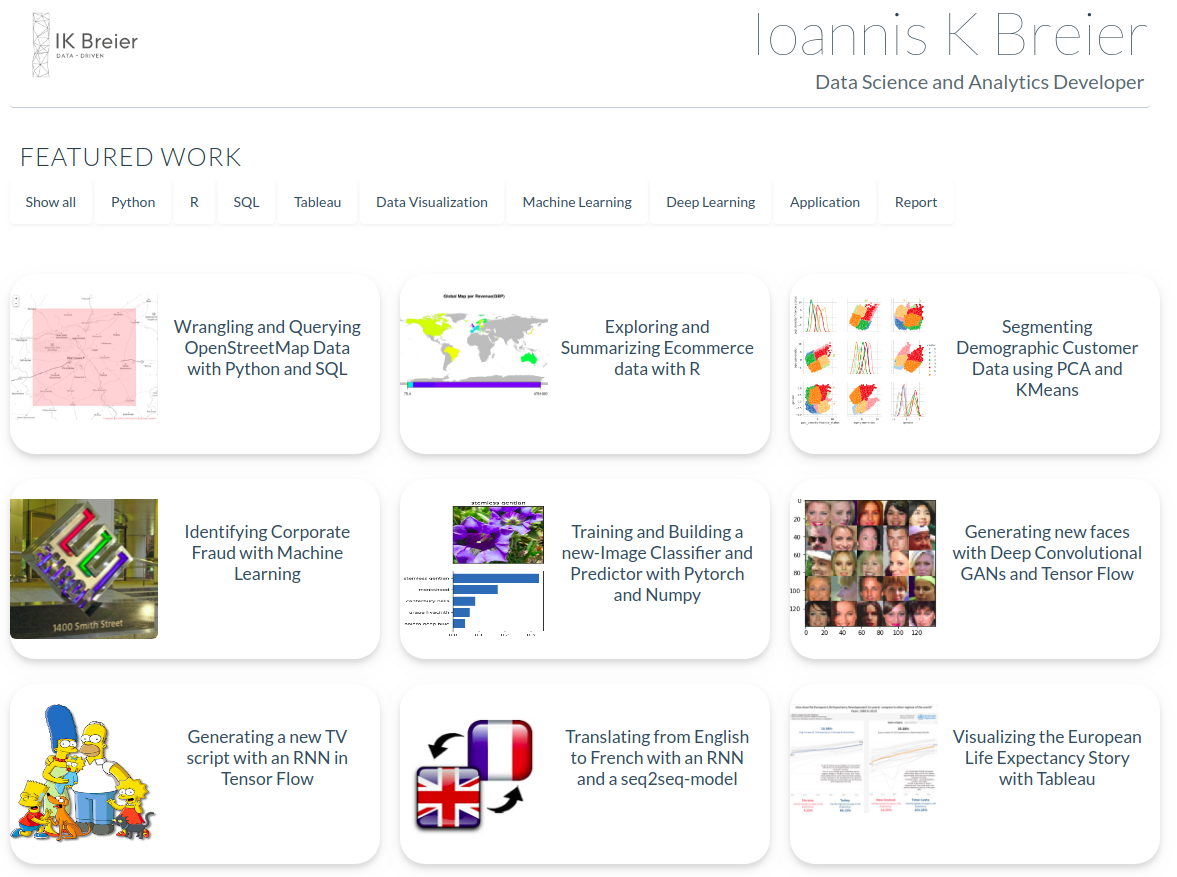
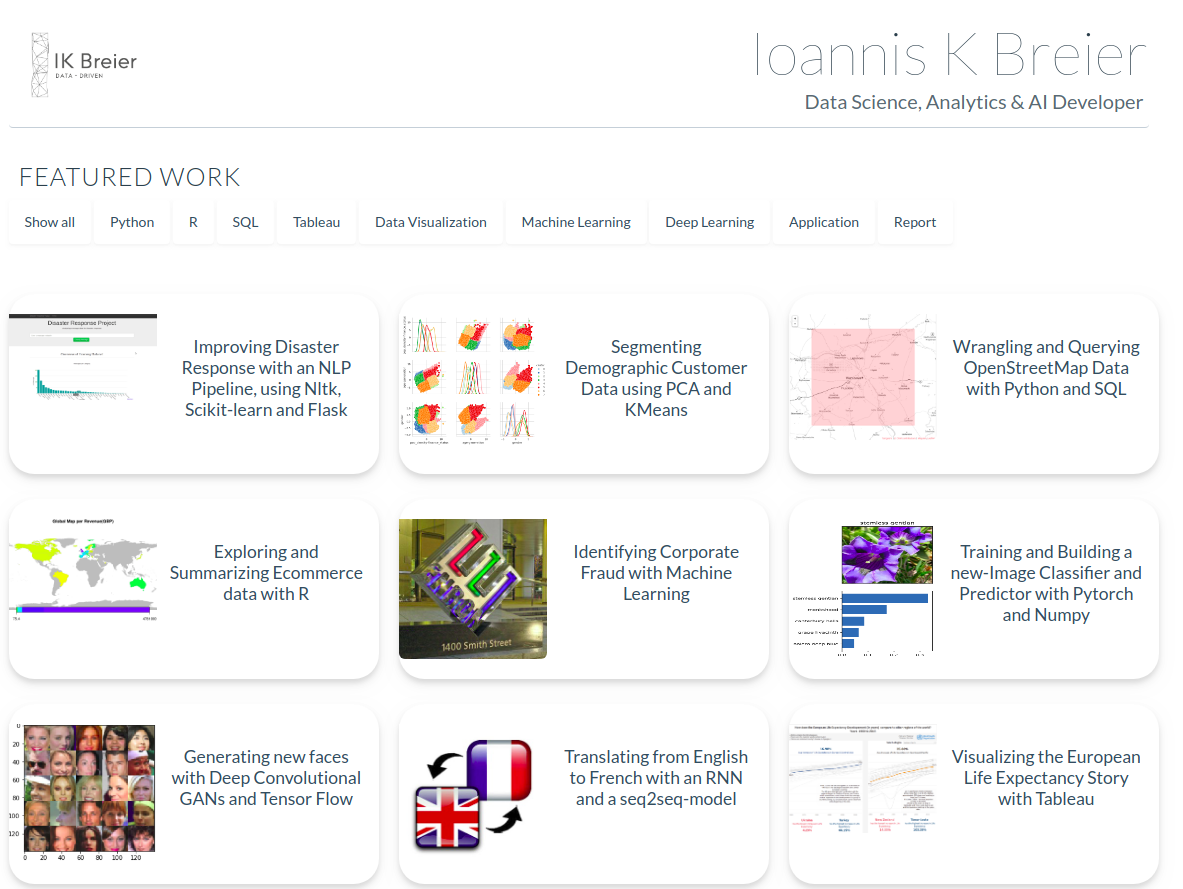
change

diff --git a/docs/index.html b/docs/index.html
@@ -21,8 +21,8 @@
 	  <!-- For Linkedin -->
 	  <meta name="Description" content="Some of my Educational and Publicly Sharable Data Science and Analytics projects">
 	  <meta name="url" content="https://jkarakas.github.io/portfolio/">
-      <meta name="image" content="img/Screenshot.png" >
-      <meta property='og:image' content='img/Screenshot 2018-10-01 08_57_53.png'/>
+      <meta name="image" content="img/screenshot.png" >
+      <meta property='og:image' content='img/screenshot.png'/>
 
 	  <!-- Latest compiled and minified CSS -->
 	  <link rel="stylesheet" href="https://maxcdn.bootstrapcdn.com/bootstrap/3.3.7/css/bootstrap.min.css">
@@ -51,10 +51,10 @@
       <button type="button" class="navbar-toggle collapsed" data-toggle="collapse" data-target="#bs-example-navbar-collapse-1" aria-expanded="false">
         <span class="sr-only">Toggle navigation</span>
         <span class="icon-bar"></span>
-        <span class="icon-bar"></span>	
+        <span class="icon-bar"></span>
         <span class="icon-bar"></span>
       </button>
-      
+
 
 
     </div>
@@ -67,7 +67,7 @@
 		      	<!-- THE LOGO ON THE LEFT IF I DECIDE TO USE IT - IMAGE AND TEXT OPTIONS -->
 <!-- 		      <a class="navbar-brand" href="#"><span><img src="img/ikbreier.ico"
 		       style="max-width:100px; margin-top: -12px; margin-left: -30px;"></span></a> -->
-<!-- 		       <li><a href="#"></a></li> 
+<!-- 		       <li><a href="#"></a></li>
 		       <a class="navbar-brand" id="nav-logo" href="#"><span>IK B</span></a> -->
 				<!-- DROPDOWN POSSIBILITY -->
 <!-- 		        <li class="active"><a href="#">Home<span class="sr-only">(current)</span></a></li>
@@ -104,7 +104,7 @@
 <!-- 		         <li class="active"><a href="#">Home<span class="sr-only">(current)</span></a></li>
 		         <li><a href="#">About</a></li>
 		        <li><a href="#">Blog</a></li> -->
-	
+
 		        <li><a href="#"></a></li>
 
 <!-- 		        <li><a href="#">Link</a></li>
@@ -130,15 +130,15 @@
 		</nav>
 		<!-- LOGO AND NAME              -->
 		<div class="container">
-			
 
-			
+
+
 
 
 <!-- 					<header class= "photo-banner"> -->
 					<nav class="navbar navbar-default title-row bg-1">
 					<div class="navbar-header logo">
-		        	<a class="navbar-left" href="#"><img alt="IKB Logo" src="img/ikbreier.png" width=150 
+		        	<a class="navbar-left" href="#"><img alt="IKB Logo" src="img/ikbreier.png" width=150
 		        	   style= 'color: #283e4a'></a>
 		   		</div><!--logo-->
 			    <div class="nav-wrapper nav-text">
@@ -146,11 +146,11 @@
 					<h3 class= "description">Data Science, Analytics & AI Developer</h3>
 				</div>  <!--Name-->
 				</nav>
-					  
-				    
+
+
 <!-- 					</header> -->
 					<h3 class="featured-projects">Featured Work</h3>
-					<div id="myBtnContainer">	
+					<div id="myBtnContainer">
 					  <button class="btn " id="filter-btn" onclick="filterSelection('all')"> Show all</button>
 					  <button class="btn " id="filter-btn" onclick="filterSelection('python')"> Python</button>
 					  <button class="btn " id="filter-btn" onclick="filterSelection('rlang')"> R</button>
@@ -171,7 +171,7 @@
 					    	<div class="project">
 <!-- 					    		<h3 class="project-title">Wrangle OpenStreetMap Data</h3> -->
 					    		<a  href="https://github.com/jkarakas/Disaster-Response-Pipeline" target="_blank"><img src="img/nlp_machine_learning_data_etl_pipeline_app.png"  class="img-rounded project-img" alt="Disaster-Respnse-Machine-Learning-NLP-Pipeline-Flask-App"></a>
-					            
+
 					      		<a class="project-description" href="https://github.com/jkarakas/Disaster-Response-Pipeline" target="_blank">Improving Disaster Response with an NLP Pipeline, using Nltk, Scikit-learn and Flask</a>
 					      	</div> <!--project-->
 					  	</div><!--column-->
@@ -181,14 +181,14 @@
 					    		<a href="https://jkarakas.github.io/Customer-Demographics-Segmentation-/Customer_Segmentation.html" target="_blank"><img src="img/clustering.png" class="img-rounded project-img" alt="Segmentation"></a>
 <!-- 					            <h3 class="project-title">Customer Segmentation </h3> -->
 					      		<a class="project-description" href="https://jkarakas.github.io/Customer-Demographics-Segmentation-/Customer_Segmentation.html" target="_blank">Segmenting Demographic Customer Data using PCA and KMeans</a>
-					      	</div> <!--project-->		
+					      	</div> <!--project-->
 					    </div><!--column-->
 
 					    <div class="col-sm-4 python sql app rep">
 					    	<div class="project">
 <!-- 					    		<h3 class="project-title">Wrangle OpenStreetMap Data</h3> -->
 					    		<a  href="https://jkarakas.github.io/Wrangle-OpenStreetMaps-Data-with-SQL/" target="_blank"><img src="img/Metro-Extracts_Warsaw.png"  class="img-rounded project-img" alt="Metro-Extracts_Warsaw"></a>
-					            
+
 					      		<a class="project-description" href="https://jkarakas.github.io/Wrangle-OpenStreetMaps-Data-with-SQL/" target="_blank"> Wrangling and Querying OpenStreetMap Data with Python and SQL</a>
 					      	</div> <!--project-->
 					  	</div><!--column-->
@@ -207,7 +207,7 @@
 					      	</div> <!--project-->
 					  	</div><!--column-->
 
-						<div class="col-sm-4 python ml rep"> 
+						<div class="col-sm-4 python ml rep">
 					    	<div class="project">
 					     		<a  href="https://jkarakas.github.io/Identify-Fraud-from-Enron-Email/" target="_blank"><img src="https://camo.githubusercontent.com/8f1273d7c412d9d41a799cc97ffc5a7c7481970b/68747470733a2f2f63646e2e746563686e6f6c6f67797265766965772e636f6d2f692f696d616765732f656e726f6e783239392e6a70673f73773d363830" class="img-rounded project-img" alt="Enron"></a>
 <!-- 			              		<h3 class="project-title">Detect Fraud</h3> -->
@@ -221,23 +221,23 @@
 					    		<a href="https://github.com/jkarakas/aipnd-project" target="_blank"><img src="https://cdn.jsdelivr.net/gh/jkarakas/aipnd-project@74539654524b165aeb7e29492d1e76c3fe355993/assets/inference_example.png" class="img-rounded project-img" height= 200 alt="aipnd-project"></a>
 <!-- 					            <h3 class="project-title">Classify Images</h3> -->
 					      		<a class="project-description" href="https://github.com/jkarakas/aipnd-project" target="_blank">Training  and Building a new-Image Classifier and Predictor with Pytorch and Numpy</a>
-					      	</div> <!--project-->					
+					      	</div> <!--project-->
 					  	</div><!--column-->
-					  	
+
 
 					  </div><!--row-->
 
 
 					  <div class="row "> <!--Not adding a margin to the last row to keep the social icons closer-->
 
-		                <div class="col-sm-4 python dl"> 	
+		                <div class="col-sm-4 python dl">
 					    	<div class="project">
 					     		<a href="https://github.com/jkarakas/Generate-New-Faces-With-DCGAN/blob/master/dlnd_face_generation.ipynb" target="_blank"><img src="img/dcgan-project.png" class="img-rounded project-img" alt="DCGAN"></a>
 <!-- 			              		<h3 class="project-title">Generate New Faces</h3> -->
 					      		<a class="project-description" href="https://github.com/jkarakas/Generate-New-Faces-With-DCGAN/blob/master/dlnd_face_generation.ipynb" target="_blank">Generating new faces with Deep Convolutional GANs and Tensor Flow</a>
 					  	  	</div> <!--project-->
 					    </div><!--column-->
-	
+
 					    <div class="col-sm-4 python dl">
 					    	<div class="project">
 					      		<a href="https://github.com/jkarakas/Language-Translation-with-a-Recurrent-Neural-Network-and-a-seq2seq-model/blob/master/dlnd_language_translation.ipynb" target="_blank"><img src="img/translate.jpg" class="img-rounded project-img" alt="seq2seq-"></a>
@@ -251,7 +251,7 @@
 					    		<a href="https://public.tableau.com/profile/ioanniskbreier#!/vizhome/who_life_expect_story_final/EuropeanStory" target="_blank"><img src="https://cdn.jsdelivr.net/gh/jkarakas/Create-a-Tableau-Story-@cc205e0563206fa2f3997039b9bb09c7bb021bc8/screenshots/version4.png" class="img-rounded project-img" alt="Tableau-Project_Warsaw"></a>
 <!-- 					            <h3 class="project-title">Visualize Life Expectancy </h3> -->
 					      		<a class="project-description" href="https://public.tableau.com/profile/ioanniskbreier#!/vizhome/who_life_expect_story_final/EuropeanStory" target="_blank">Visualizing the  European Life Expectancy Story  with Tableau</a>
-					      	</div> <!--project-->		
+					      	</div> <!--project-->
 					  	</div><!--column-->
 
 					  </div><!--row-->
@@ -267,7 +267,7 @@
 					      	</div> <!--project-->
 					  	</div><!--column-->
 
-					  	<div class="col-sm-4 python dl"> 	
+					  	<div class="col-sm-4 python dl">
 					    	<div class="project">
 					     		<a href="https://github.com/jkarakas/TV_Script-_Generation/blob/master/dlnd_tv_script_generation.ipynb" target="_blank"><img src="img/simpsons.png" class="img-rounded project-img" alt="simpsons"></a>
 <!-- 			              		<h3 class="project-title">Generate a new TVScript</h3> -->
@@ -284,5 +284,3 @@
 	   <script src="js/filter.js"></script>
 	</body>
 </html>
-
-
